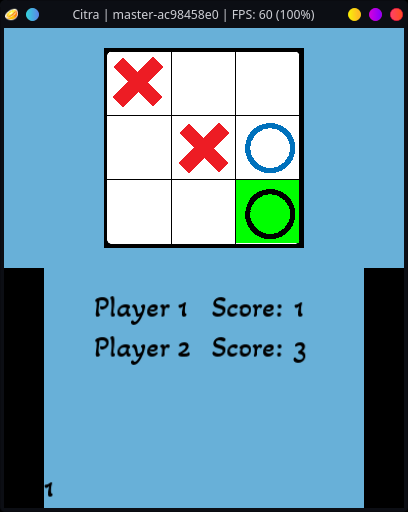
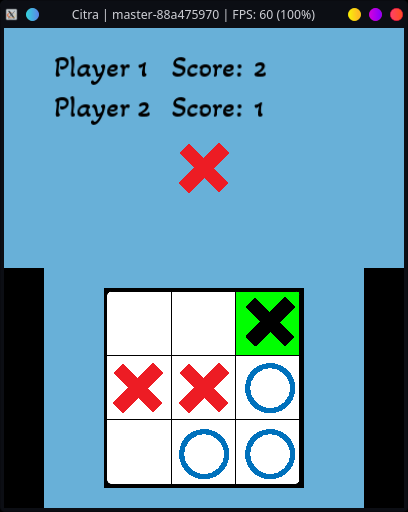
Pictures added

diff --git a/source/gameGraphics.cpp b/source/gameGraphics.cpp
@@ -7,11 +7,11 @@
 #define CELL_SPACE_DIFFERENCE 	66
 #define BG_SPACE_DIFFERENCE		64
 
-#define X_PIECE_RED 	0
-#define X_PIECE_BLACK	1
+#define X_PIECE_BLACK 	0
+#define X_PIECE_RED		1
 
-#define O_PIECE_BLUE 	2
-#define O_PIECE_BLACK	3
+#define O_PIECE_BLACK 	2
+#define O_PIECE_BLUE	3
 
 
 static Object* sprites = new Object[MAX_SPRITES];
@@ -38,6 +38,7 @@ void GameGraphics::prepareNextRound() {
 	placedPiecesCnt = 0;
 	changeFirstPiece();
 	pieceOnPlay = gamePieces[gPiecesIndex];
+	
 }
 
 
@@ -74,7 +75,7 @@ void GameGraphics::drawScore(){
 }
 
 void GameGraphics::showPieceOnPlayTopScreen(){
-	gameScene::draw(pieceOnPlay);
+	gameScene::draw(&staticPieceOnPlay);
 }
 
 void GameGraphics::renderTopScreen() {
@@ -224,11 +225,11 @@ void GameGraphics::placePiece(int placing_position) {
 
 
 void GameGraphics::changePieceOnPlay(){
-	if (gPiecesIndex == X_PIECE_RED) {
-		gPiecesIndex = O_PIECE_BLUE;
+	if (gPiecesIndex == X_PIECE_BLACK) {
+		gPiecesIndex = O_PIECE_BLACK;
 	}
 	else {
-		gPiecesIndex = X_PIECE_RED;
+		gPiecesIndex = X_PIECE_BLACK;
 	}
 
 	pieceOnPlay->setPos(WIDTH_CENTER, HEIGHT_CENTER);
@@ -237,18 +238,23 @@ void GameGraphics::changePieceOnPlay(){
 
 	currentPieceImage = gamePieces[gPiecesIndex]->getImage();
 	pieceOnPlay = gamePieces[gPiecesIndex];
+
+	staticPieceOnPlay.setImage(gamePieces[gPiecesIndex + 1]->getImage());
+
 }
 
 void GameGraphics::changeFirstPiece() {
 	if(wasXFirst){
-		gPiecesIndex = O_PIECE_BLUE;
+		gPiecesIndex = O_PIECE_BLACK;
 	} else{
-		gPiecesIndex = X_PIECE_RED;
+		gPiecesIndex = X_PIECE_BLACK;
 	}
 
 	wasXFirst = !wasXFirst;
 
 	currentPieceImage = gamePieces[gPiecesIndex]->getImage();
+	staticPieceOnPlay.setImage(gamePieces[gPiecesIndex + 1]->getImage());
+
 }
 
 void GameGraphics::setScoreP1(int scoreP1){
@@ -291,14 +297,6 @@ Object* GameGraphics::getGrid(){
 }
 
 
-void GameGraphics::setGameMode(int gameMode){
-	this->gameMode = gameMode;
-
-	if(gameMode == RUSH_MODE){
-		pieceOnPlay->setImage(gamePieces[gPiecesIndex + 1]->getImage());
-		pieceOnPlay->setPos( (SCREEN_WIDTH + 80) / 2, (SCREEN_HEIGHT / 2) + 20);
-	}
-}
 
 
 
@@ -318,10 +316,10 @@ GameGraphics::GameGraphics() {
 
 
 	
-	gamePieces[0] = new Object(sprites, &spriteSheet, 1);
-	gamePieces[1] = new Object(sprites, &spriteSheet, 2);
-	gamePieces[2] = new Object(sprites, &spriteSheet, 3);
-	gamePieces[3] = new Object(sprites, &spriteSheet, 4);
+	gamePieces[X_PIECE_BLACK] 	= new Object(sprites, &spriteSheet, 1);
+	gamePieces[X_PIECE_RED] 	= new Object(sprites, &spriteSheet, 2);
+	gamePieces[O_PIECE_BLACK] 	= new Object(sprites, &spriteSheet, 3);
+	gamePieces[O_PIECE_BLUE] 	= new Object(sprites, &spriteSheet, 4);
 
 
 
@@ -331,6 +329,11 @@ GameGraphics::GameGraphics() {
 	gPiecesIndex = 0;
 	placedPiecesCnt = 0;
 	pieceOnPlay = gamePieces[0];
+
+	staticPieceOnPlay = Object(sprites, &spriteSheet, 2);
+	staticPieceOnPlay.setPos( (SCREEN_WIDTH + 80) / 2, (SCREEN_HEIGHT / 2) + 20);
+
+
 	grid = new Object(sprites, &spriteSheet, 0);
 
 	arrow = new Object(sprites, &spriteSheet, 6, -150, 0);

diff --git a/source/game.cpp b/source/game.cpp
@@ -274,12 +274,16 @@ void Game::chooseMode() {
 				gameMode = -gameMode;
 			}
 
+			//	Go back
+			if (kDown & KEY_B) {
+				gameModeOnlineLocal = UNSET;
+			}
+
 			gfx->drawArrow();
 			gfx->drawClassicRushMenu();
 
 		} else if(gameMode == RUSH_MODE){
 
-			gfx->setGameMode(RUSH_MODE);
 			showScore();
 			gfx->showPieceOnPlayTopScreen();
 			
@@ -299,7 +303,7 @@ void Game::chooseMode() {
 			startLocalGame(kDown);
 		} else{
 
-			gfx->setGameMode(CLASSIC_MODE);
+			gfx->showPieceOnPlayTopScreen();
 			showScore();
 
 			gfx->renderBotScreen();
@@ -312,6 +316,11 @@ void Game::chooseMode() {
 		
 		if(!timerIsSet){
 			startTimer();
+		}
+
+		//	Go back
+		if (kDown & KEY_B) {
+			gameModeOnlineLocal = UNSET;
 		}
 
 		gfx->renderBotScreen();

diff --git a/source/gameGraphics.h b/source/gameGraphics.h
@@ -37,10 +37,10 @@ private:
 	int placedPiecesCnt;
 
 	bool wasXFirst = true;
-	int gameMode;
 	
 
 	Object* pieceOnPlay;
+	Object staticPieceOnPlay;
 
 
 	C3D_RenderTarget* topScreen;
@@ -79,7 +79,6 @@ public:
 	void moveCursorToPlace(int index);
 	void setPieceBackground(int index, int background);
 
-	void setGameMode(int gameMode);
 	void showPieceOnPlayTopScreen();
 
 

diff --git a/README.md b/README.md
@@ -1,7 +1,7 @@
 # ThreeTacToe
 ## A TicTacToe game for the Nintendo 3DS (*Almost*).
 
-![Basic Game](/pictures/1.png)
+![Classic Game](/pictures/1.png)
 
 
 ### This game presents the original game with a little twist: Players only have three seconds to move.
@@ -14,6 +14,9 @@ The clock is visible in the bottom left of the bottom screen.
 The other player will be able to move, even if you didn't place a piece.
 
 ![Added Time Mechanic](/pictures/2.png)
+
+### Classic Mode
+Classic mode is still playable. That is: Tic-Tac-Toe without time mechanics.
 
 ## Online mode?
 As of now, it is not available. Hopefully it will in the future.
